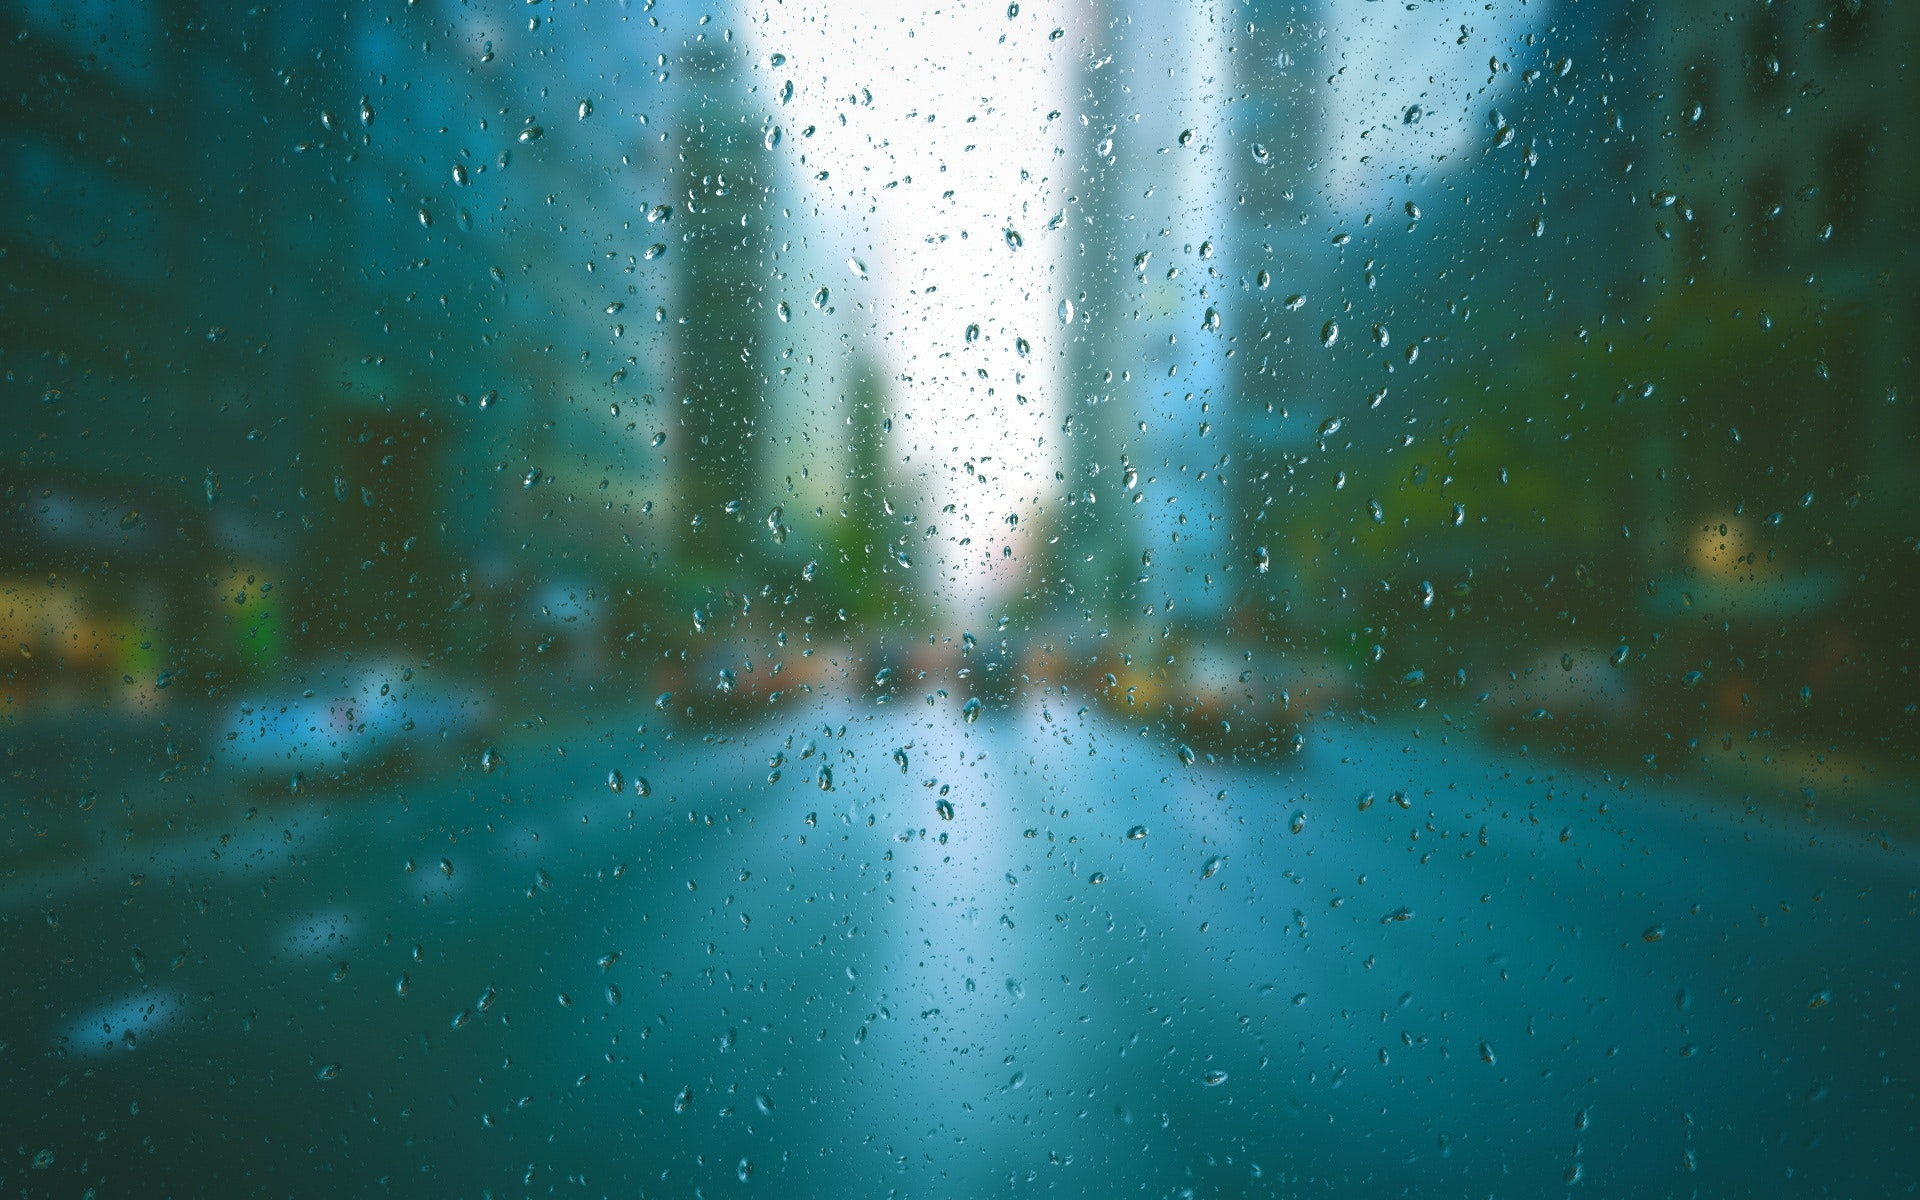
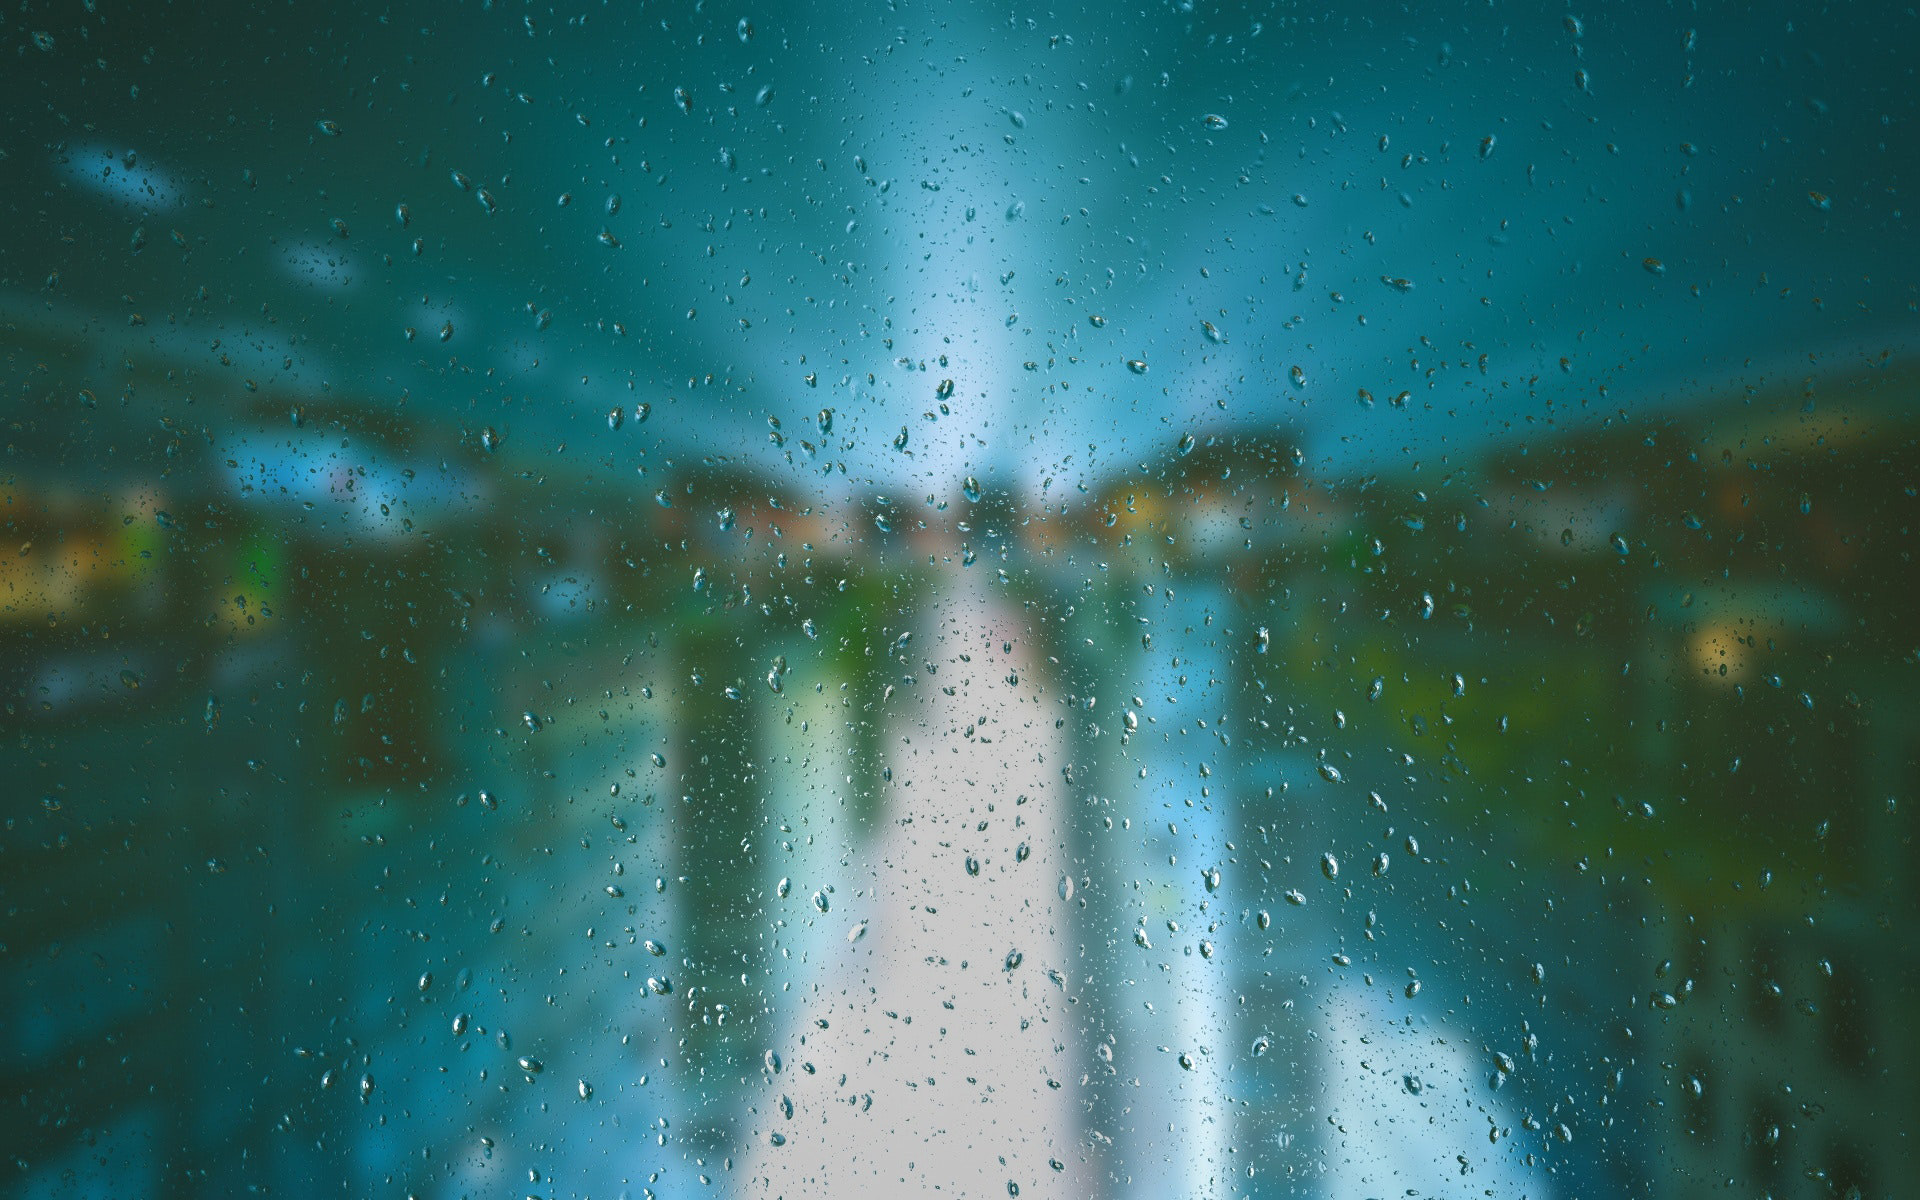
commi

diff --git a/templates/main_base.html b/templates/main_base.html
@@ -4,7 +4,6 @@
 
 <head>
     {% block head %}{% endblock head %}
-    {% comment %} <script src="https://kit.fontawesome.com/1e0e201c56.js" crossorigin="anonymous"></script> {% endcomment %}
     <link rel="stylesheet" type="text/css" href="{% static "css/main_style.css" %}" />
     <link rel="stylesheet" type="text/css" href="{% static "vendor/fontawesome 6.10/css/all.min.css" %}"/>
     <meta charset="UTF-8" />

diff --git a/static/css/main_style.css b/static/css/main_style.css
@@ -68,7 +68,7 @@ html:focus-within {
 #bg {
   height: 100%;
   width: 100%;
-  background-image: url(../img/bg.png);
+  background-image: url(../img/bg.jpg);
   background-size: cover;
   background-repeat: no-repeat;
   background-position: center;
